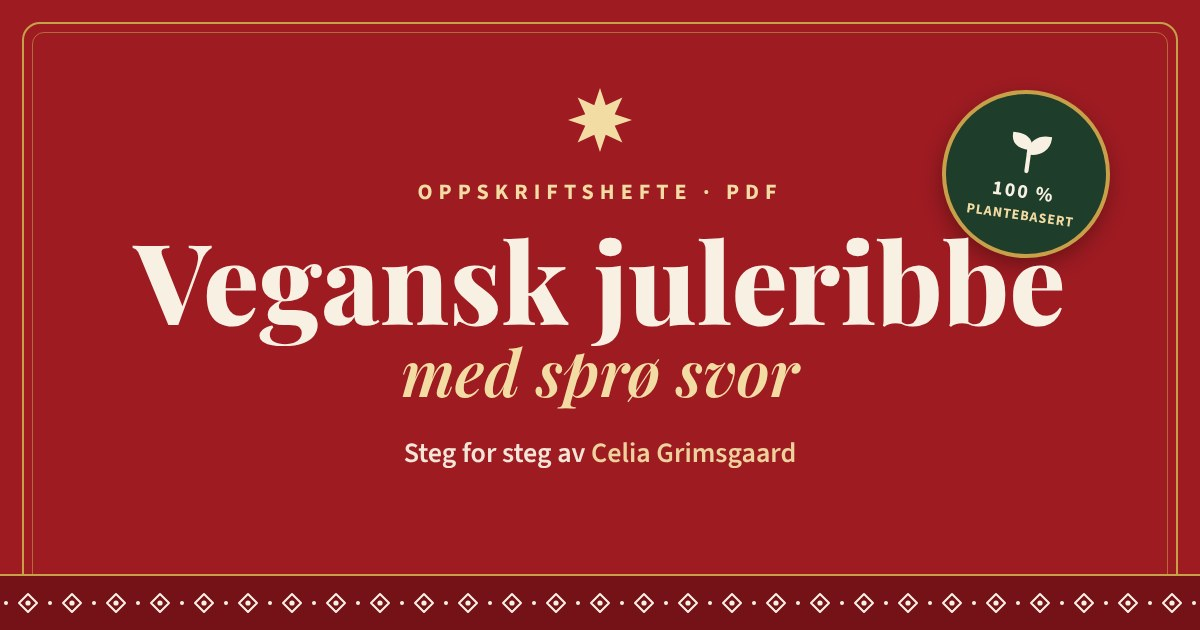
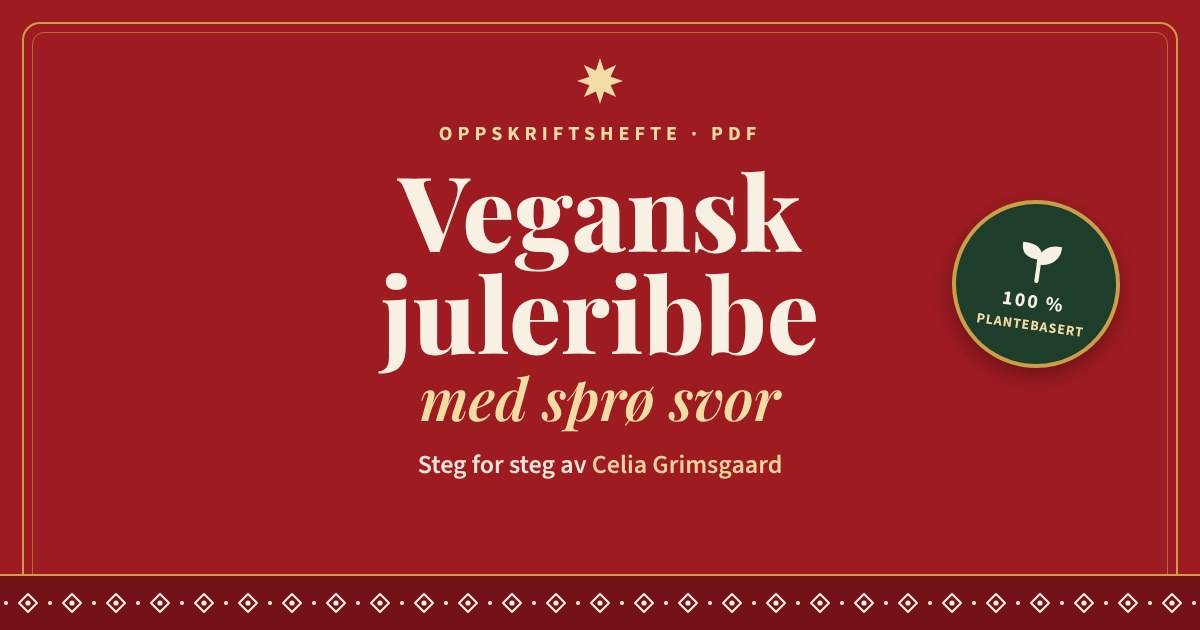
Delingsbilde som tåler kvadratisk utsnitt, Messenger gjenkjennes riktig
Claude-Session: https://claude.ai/code/session_011e6gvt9zdqGLMMvjYgv7yq

Changed region(s): [[0.0925, 0.1206, 0.9558, 0.754], [0.37, 0.0905, 0.555, 0.2413], [0.5858, 0.181, 0.6167, 0.2413]]

diff --git a/assets/api.js b/assets/api.js
@@ -31,7 +31,9 @@
   window.vjInApp = function () {
     var ua = navigator.userAgent || '';
     var ios = /iPhone|iPad|iPod/i.test(ua) || (/Macintosh/i.test(ua) && navigator.maxTouchPoints > 1);
-    var app = /Instagram/i.test(ua) ? 'Instagram' : /FBAN|FBAV|FB_IAB|FBIOS|FB4A/i.test(ua) ? 'Facebook' : /Messenger/i.test(ua) ? 'Messenger' :
+    // Messenger må sjekkes før Facebook, fordi Messenger også har Facebook-merker i nettleser-ID-en
+    var app = /Instagram/i.test(ua) ? 'Instagram' : /Messenger|Orca-Android|FBAN\/(MessengerForiOS|MessengerLiteForiOS)/i.test(ua) ? 'Messenger' :
+      /FBAN|FBAV|FB_IAB|FBIOS|FB4A/i.test(ua) ? 'Facebook' :
       /TikTok|musical_ly|Bytedance/i.test(ua) ? 'TikTok' : /Snapchat/i.test(ua) ? 'Snapchat' : /LinkedInApp/i.test(ua) ? 'LinkedIn' :
       /Pinterest/i.test(ua) ? 'Pinterest' : /; wv\)/.test(ua) ? 'appen' : '';
     return app ? { app: app, ios: ios } : null;
